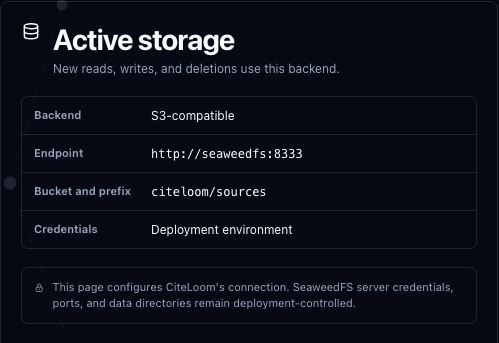
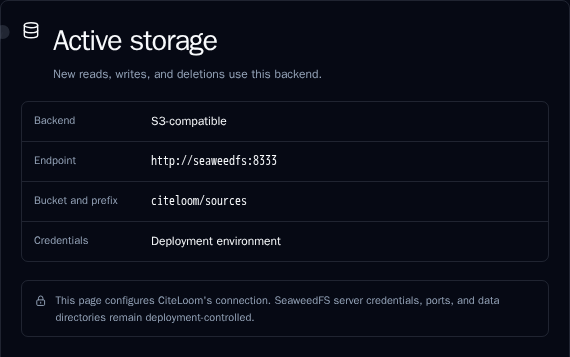
fix(storage): show path-style state and document AWS migration

diff --git a/web/fragments/settings.html b/web/fragments/settings.html
@@ -1112,7 +1112,11 @@
                 <small>Credentials are write-only and are never returned by the API or included in migration status.</small>
               </div>
               </template>
-              <label class="toggle-control settings-toggle-control settings-storage-path-style"><input type="checkbox" :checked="sourceContentStorageDraft.forcePathStyle" :disabled="sourceContentMigrationActive() || sourceContentStorageBusy" @change="writeSourceContentStorageDraft('forcePathStyle', $event.target.checked)" /><span><strong>Use path-style URLs</strong><small>Required by bundled SeaweedFS and many self-hosted S3 services.</small></span></label>
+              <label class="toggle-control settings-toggle-control settings-storage-path-style">
+                <input type="checkbox" :checked="sourceContentStorageDraft.forcePathStyle" :disabled="sourceContentMigrationActive() || sourceContentStorageBusy" @change="writeSourceContentStorageDraft('forcePathStyle', $event.target.checked)" />
+                <span class="toggle-track" aria-hidden="true"><span></span></span>
+                <span><strong>Use path-style URLs</strong><small x-text="sourceContentStorageDraft.forcePathStyle ? 'On. Required by bundled SeaweedFS and many self-hosted S3 services.' : 'Off. Recommended for AWS S3.'"></small></span>
+              </label>
             </div>
             </template>
 

diff --git a/test/citeloom-settings.test.js b/test/citeloom-settings.test.js
@@ -539,6 +539,10 @@ describe("CiteLoom source-content storage settings", () => {
     expect(fragment).toContain('@click="startSourceContentMigration()"');
     expect(fragment).toContain('@click="cancelSourceContentMigration()"');
     expect(fragment).toContain("Credentials are write-only");
+    expect(fragment).toMatch(
+      /@change="writeSourceContentStorageDraft\('forcePathStyle', \$event\.target\.checked\)" \/>\s*<span class="toggle-track" aria-hidden="true"><span><\/span><\/span>/u,
+    );
+    expect(fragment).toContain("'Off. Recommended for AWS S3.'");
     expect(fragment).toContain(
       '<select class="form-control compact-header-control" :aria-label="`${workspace.name} access to ${library.name}`"',
     );

diff --git a/docsite/src/content/docs/installation/seaweedfs.md b/docsite/src/content/docs/installation/seaweedfs.md
@@ -15,7 +15,7 @@ The included Compose overlay uses SeaweedFS.
 | --- | --- |
 | New installation with SeaweedFS | Configure `.env`, then start CiteLoom with the SeaweedFS overlay. |
 | Existing filesystem installation | Start SeaweedFS, then migrate from **Settings > Object storage**. |
-| Another S3-compatible service | Start with filesystem storage, then use **Settings > Object storage** to test and migrate. |
+| AWS S3 or another S3-compatible service | Keep the current backend running, then use **Settings > Object storage** to test and migrate. |
 
 ## Keep storage locations separate
 
@@ -182,6 +182,90 @@ The previous filesystem does not contain documents that CiteLoom added after the
 
 After this verification, start CiteLoom without the SeaweedFS overlay.
 Keep the SeaweedFS data directory until your recovery period ends because CiteLoom does not delete the previous S3 objects.
+
+## Migrate from SeaweedFS to AWS S3
+
+Use this workflow when **S3-compatible storage** is active and the endpoint is the bundled SeaweedFS service.
+Keep SeaweedFS running until the AWS migration completes and your recovery period ends.
+
+### 1. Prepare the AWS bucket and credentials
+
+Create the destination bucket in the AWS region that you want to use.
+Choose a key prefix that no other CiteLoom environment uses.
+
+The AWS identity needs these permissions:
+
+- `s3:ListBucket` for the destination bucket.
+- `s3:GetObject`, `s3:PutObject`, and `s3:DeleteObject` for objects below the selected key prefix.
+
+The connection test lists the bucket and creates, reads, and deletes a temporary probe object.
+The migration reads and verifies every copied source object.
+
+### 2. Keep the SeaweedFS deployment active
+
+Do not remove `compose.seaweedfs.yml` or stop SeaweedFS before cutover.
+CiteLoom must read from SeaweedFS while it copies documents to AWS S3.
+
+The bundled overlay uses `AWS_ACCESS_KEY_ID` and `AWS_SECRET_ACCESS_KEY` for the active SeaweedFS connection.
+Those environment variables cannot also contain different AWS credentials during the same migration.
+
+### 3. Configure AWS S3 as the migration target
+
+Sign in as a global administrator and open **Settings > Object storage**.
+Confirm that the active endpoint is `http://seaweedfs:8333` before you continue.
+
+Enter these target values:
+
+| Field | AWS S3 value |
+| --- | --- |
+| Backend | **S3-compatible object storage** |
+| Endpoint URL | `https://s3.<region>.amazonaws.com` |
+| Bucket | The destination AWS bucket name. |
+| Object key prefix | A prefix reserved for this CiteLoom environment. |
+| Signing region | The AWS region that contains the bucket. |
+| Credential source | **Enter static credentials** |
+| Access key ID | The AWS access key ID. |
+| Secret access key | The AWS secret access key. |
+| Use path-style URLs | Disabled. |
+
+Replace `<region>` with the bucket region.
+For example, use `https://s3.ca-central-1.amazonaws.com` for `ca-central-1`.
+
+Static credentials entered in Settings are write-only through the API.
+CiteLoom stores them in PostgreSQL, so database backups contain them.
+
+### 4. Test the AWS connection
+
+Select **Test connection**.
+Do not start the migration unless CiteLoom reports that the destination is ready.
+
+If the test fails, confirm the endpoint, region, bucket, credentials, IAM permissions, and path-style setting.
+The active SeaweedFS backend remains unchanged after a failed test.
+
+### 5. Start and monitor the migration
+
+1. Select **Start migration**.
+2. Confirm the document count.
+3. Keep the worker and SeaweedFS services running.
+4. Wait until the migration status is **Completed**.
+5. Confirm that **Active storage** shows the AWS endpoint, bucket, and prefix.
+
+CiteLoom keeps SeaweedFS active while it copies and hash-verifies documents.
+The active configuration changes to AWS S3 only after final verification and cutover complete.
+
+If the migration fails or is cancelled before cutover, SeaweedFS stays active.
+Correct the reported problem and start a new migration.
+
+### 6. Verify AWS storage and keep rollback available
+
+Upload a representative document after cutover and confirm that CiteLoom can open and process it.
+Confirm that AWS S3 contains objects below the configured prefix.
+
+Keep the SeaweedFS service, its credentials, and its data directory for the recovery period that your policy defines.
+New writes and deletions are not copied back to SeaweedFS after cutover.
+
+To roll back during that period, configure SeaweedFS as the migration target with its original values, enable path-style URLs, test the connection, and complete the reverse migration.
+After the recovery period, remove the SeaweedFS overlay from the deployment and recreate the application services with all other required overlays.
 
 ## Use another S3-compatible service
 
